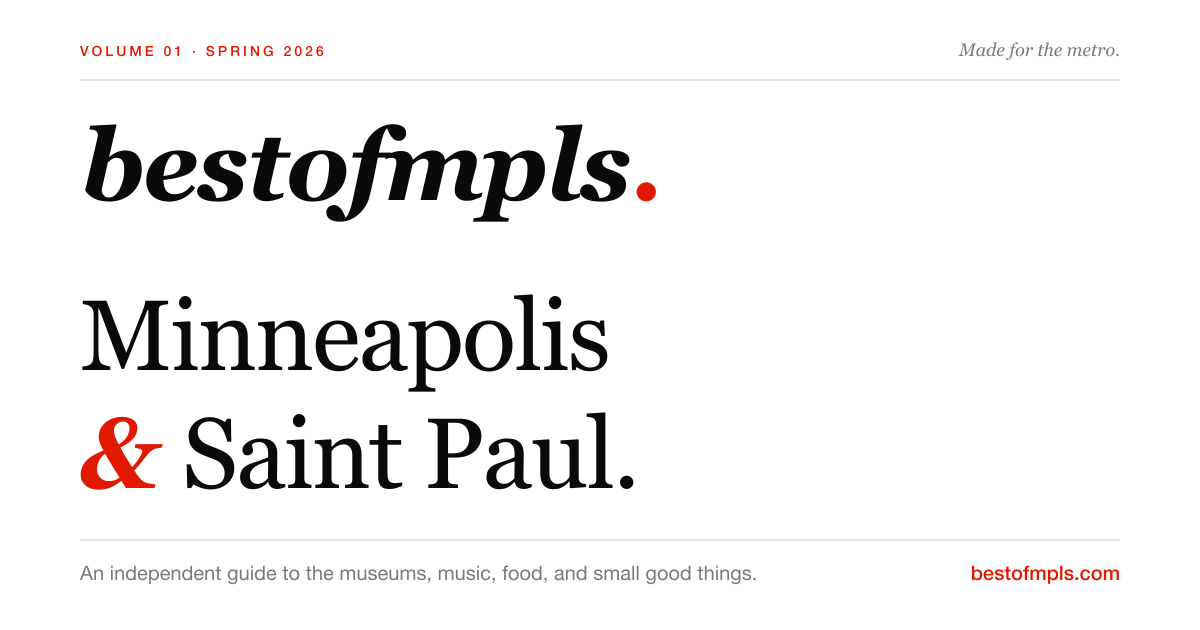
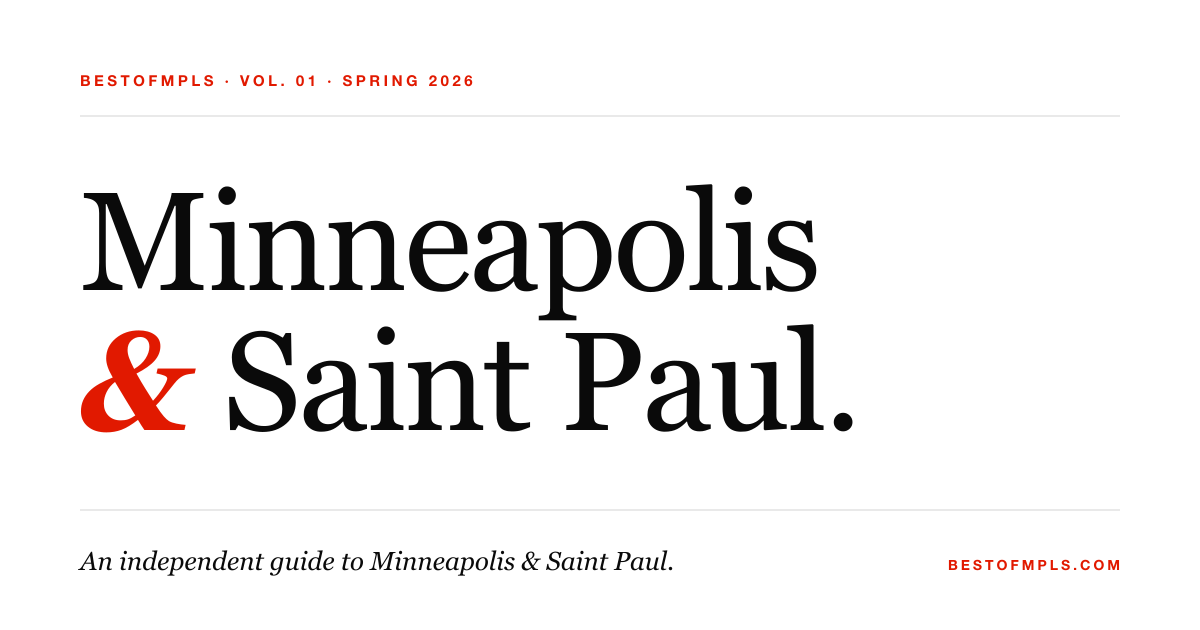
New OG image: bigger headline, simpler layout
- Removed brand mark from middle (was competing with the headline)
- Headline goes from 100px to 140px for more presence at thumbnail size
- Eyebrow row simplified to single line with brand + volume + season
- Bottom: italic serif tagline + small all-caps red URL
- Cleaner hairline structure top and bottom
- Slightly less grain so the headline reads cleaner

diff --git a/scripts/build-og.js b/scripts/build-og.js
@@ -27,7 +27,7 @@ function generateSVG() {
   <defs>
     <filter id="grain">
       <feTurbulence type="fractalNoise" baseFrequency="0.85" numOctaves="2" stitchTiles="stitch"/>
-      <feColorMatrix values="0 0 0 0 1  0 0 0 0 1  0 0 0 0 1  0 0 0 0.06 0"/>
+      <feColorMatrix values="0 0 0 0 1  0 0 0 0 1  0 0 0 0 1  0 0 0 0.05 0"/>
       <feComposite in2="SourceGraphic" operator="in"/>
     </filter>
   </defs>
@@ -36,30 +36,24 @@ function generateSVG() {
   <rect width="1200" height="630" fill="${PAPER}"/>
 
   <!-- Subtle paper grain overlay -->
-  <rect width="1200" height="630" filter="url(#grain)" opacity="0.5"/>
+  <rect width="1200" height="630" filter="url(#grain)"/>
 
-  <!-- Top hairline -->
-  <line x1="80" y1="80" x2="1120" y2="80" stroke="${INK}" stroke-opacity="0.2" stroke-width="1"/>
+  <!-- Top eyebrow row -->
+  <text x="80" y="86" font-family="Helvetica Neue, Helvetica, Arial, sans-serif" font-weight="700" font-size="15" letter-spacing="3.5" fill="${CLAY}">BESTOFMPLS · VOL. 01 · SPRING 2026</text>
 
-  <!-- Top-left issue badge -->
-  <text x="80" y="56" font-family="Helvetica Neue, Helvetica, Arial, sans-serif" font-weight="600" font-size="14" letter-spacing="3" fill="${CLAY}">VOLUME 01 · SPRING 2026</text>
+  <!-- Top hairline below eyebrow -->
+  <line x1="80" y1="116" x2="1120" y2="116" stroke="${INK}" stroke-opacity="0.18" stroke-width="1"/>
 
-  <!-- Top-right tagline -->
-  <text x="1120" y="56" font-family="Georgia, serif" font-style="italic" font-size="18" fill="${PAPER_FAINT}" text-anchor="end">Made for the metro.</text>
-
-  <!-- Brand mark, large. Playfair italic 900. -->
-  <text x="80" y="200" font-family="Playfair Display, Georgia, serif" font-style="italic" font-weight="900" font-size="100" letter-spacing="-2" fill="${INK}">bestofmpls<tspan fill="${CLAY}">.</tspan></text>
-
-  <!-- Headline (the city pair). Playfair regular + italic accent. -->
-  <text x="80" y="370" font-family="Playfair Display, Georgia, serif" font-weight="400" font-size="100" letter-spacing="-2" fill="${INK}">Minneapolis</text>
-  <text x="80" y="488" font-family="Playfair Display, Georgia, serif" font-weight="400" font-size="100" letter-spacing="-2" fill="${INK}"><tspan font-style="italic" font-weight="700" fill="${CLAY}">&amp;</tspan> Saint Paul.</text>
+  <!-- Massive headline. Two lines. Italic red ampersand. -->
+  <text x="80" y="290" font-family="Playfair Display, Georgia, serif" font-weight="400" font-size="140" letter-spacing="-3" fill="${INK}">Minneapolis</text>
+  <text x="80" y="430" font-family="Playfair Display, Georgia, serif" font-weight="400" font-size="140" letter-spacing="-3" fill="${INK}"><tspan font-style="italic" font-weight="700" fill="${CLAY}">&amp;</tspan> Saint Paul.</text>
 
   <!-- Bottom hairline -->
-  <line x1="80" y1="540" x2="1120" y2="540" stroke="${INK}" stroke-opacity="0.2" stroke-width="1"/>
+  <line x1="80" y1="510" x2="1120" y2="510" stroke="${INK}" stroke-opacity="0.18" stroke-width="1"/>
 
-  <!-- Bottom row: deck + URL -->
-  <text x="80" y="580" font-family="Helvetica Neue, Helvetica, Arial, sans-serif" font-size="20" fill="${PAPER_FAINT}">An independent guide to the museums, music, food, and small good things.</text>
-  <text x="1120" y="580" font-family="Helvetica Neue, Helvetica, Arial, sans-serif" font-weight="600" font-size="20" fill="${CLAY}" text-anchor="end">bestofmpls.com</text>
+  <!-- Bottom row: tagline left, URL right (italic serif tagline, all-caps URL) -->
+  <text x="80" y="570" font-family="Playfair Display, Georgia, serif" font-style="italic" font-weight="400" font-size="26" fill="${INK}">An independent guide to Minneapolis &amp; Saint Paul.</text>
+  <text x="1120" y="570" font-family="Helvetica Neue, Helvetica, Arial, sans-serif" font-weight="700" font-size="14" letter-spacing="3" fill="${CLAY}" text-anchor="end">BESTOFMPLS.COM</text>
 </svg>`;
 }
 
